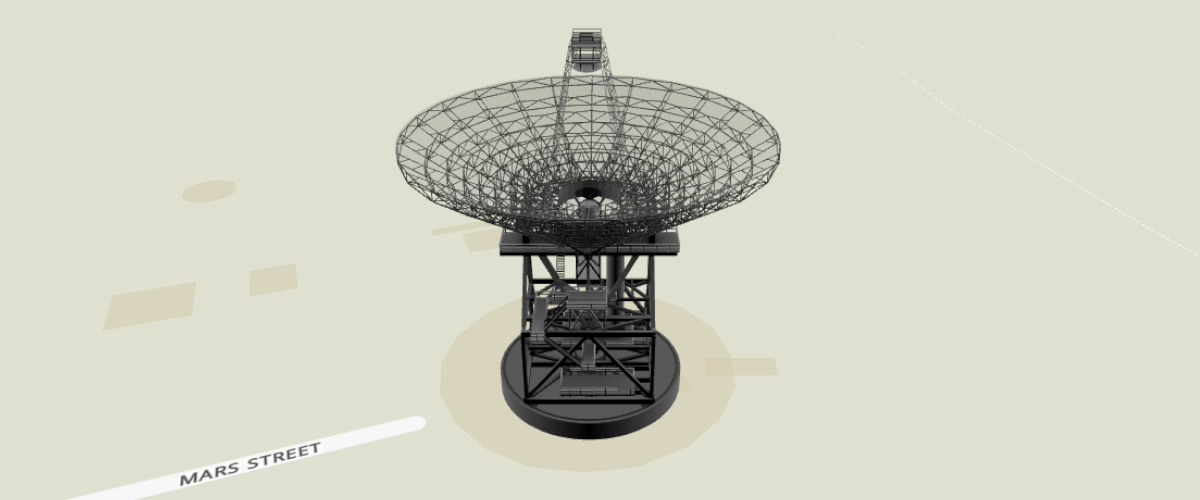
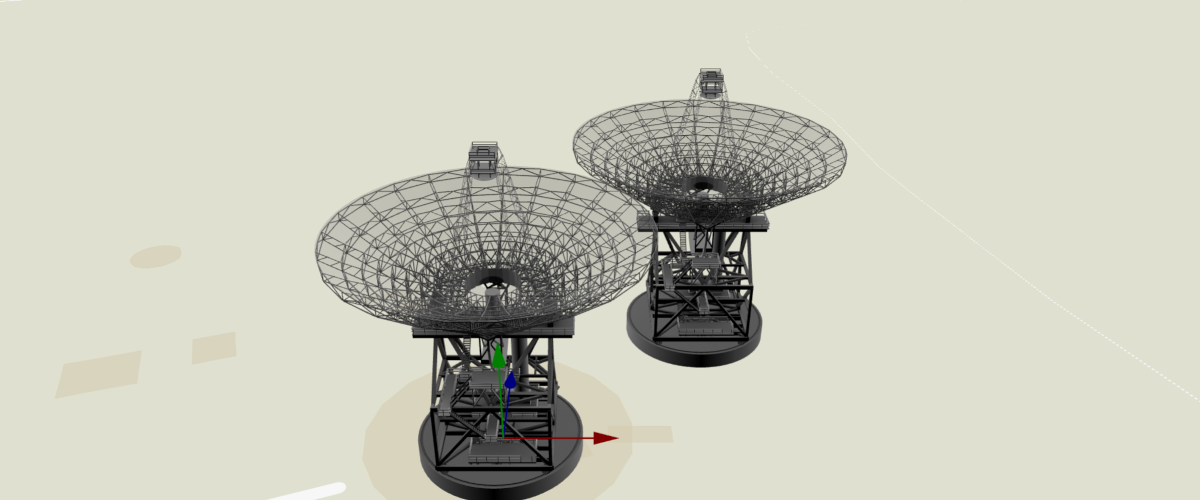
Rework example for clearer transformations & new thumbnail

Changed region(s): [[0.0617, 0.06, 0.7092, 1.0], [0.2158, 0.96, 0.3083, 1.0]]

diff --git a/docs/pages/example/add-3d-model-babylon.html b/docs/pages/example/add-3d-model-babylon.html
@@ -11,30 +11,37 @@
         antialias: true // create the gl context with MSAA antialiasing, so custom layers are antialiased
     }));
 
-    // Model location and orientation on the map
-    var modelOrigin = [148.9819, -35.39847];
-    var modelAltitude = 0;
-    var modelRotate = [Math.PI / 2, 0, 0];
+    // World matrix parameters
+    var worldOrigin = [148.9819, -35.39847];
+    var worldAltitude = 0;
+
+    // Maplibre.js default coordinate system (no rotations)
+    // +x east, -y north, +z up
+    //var worldRotate = [0, 0, 0];
+
+    // Babylon.js default coordinate system
+    // +x east, +y up, +z north
+    var worldRotate = [Math.PI / 2, 0, 0];
 
     // Calculate mercator coordinates and scale
-    var modelMercatorCoords = maplibregl.MercatorCoordinate.fromLngLat(
-        modelOrigin,
-        modelAltitude
+    var worldOriginMercator = maplibregl.MercatorCoordinate.fromLngLat(
+        worldOrigin,
+        worldAltitude
     );
-    const modelScale = modelMercatorCoords.meterInMercatorCoordinateUnits();
+    const worldScale = worldOriginMercator.meterInMercatorCoordinateUnits();
 
-    // Calculate model matrix
-    var modelMatrix = BABYLON.Matrix.Compose(
-        new BABYLON.Vector3(modelScale, modelScale, modelScale),
+    // Calculate world matrix
+    var worldMatrix = BABYLON.Matrix.Compose(
+        new BABYLON.Vector3(worldScale, worldScale, worldScale),
         BABYLON.Quaternion.FromEulerAngles(
-            modelRotate[0],
-            modelRotate[1],
-            modelRotate[2]
+            worldRotate[0],
+            worldRotate[1],
+            worldRotate[2]
         ),
         new BABYLON.Vector3(
-            modelMercatorCoords.x,
-            modelMercatorCoords.y,
-            modelMercatorCoords.z
+            worldOriginMercator.x,
+            worldOriginMercator.y,
+            worldOriginMercator.z
         )
     );
 
@@ -77,6 +84,9 @@
             );
             light.intensity = 0.7;
 
+            // Add debug axes viewer, positioned at origin, 10 meter axis lengths
+            new BABYLON.AxesViewer(this.scene, 10);
+
             // load GLTF model in to the scene
             BABYLON.SceneLoader.LoadAssetContainerAsync(
                 'https://maplibre.org/maplibre-gl-js-docs/assets/34M_17/34M_17.gltf',
@@ -84,6 +94,18 @@
                 this.scene
             ).then((modelContainer) => {
                 modelContainer.addAllToScene();
+
+                const rootMesh = modelContainer.createRootMesh();
+
+                // If using maplibre.js coordinate system (+z up)
+                //rootMesh.rotation.x = Math.PI/2
+
+                // Create a second mesh
+                const rootMesh2 = rootMesh.clone();
+
+                // Position in babylon.js coordinate system
+                rootMesh2.position.x = 25; // +east, meters
+                rootMesh2.position.z = 25; // +north, meters
             });
 
             this.map = map;
@@ -91,10 +113,10 @@
         render: function (gl, matrix) {
             const cameraMatrix = BABYLON.Matrix.FromArray(matrix);
 
-            // model-view-projection matrix
-            const mvpMatrix = modelMatrix.multiply(cameraMatrix);
+            // world-view-projection matrix
+            const wvpMatrix = worldMatrix.multiply(cameraMatrix);
 
-            this.camera.freezeProjectionMatrix(mvpMatrix);
+            this.camera.freezeProjectionMatrix(wvpMatrix);
 
             this.scene.render(false);
             this.map.triggerRepaint();
